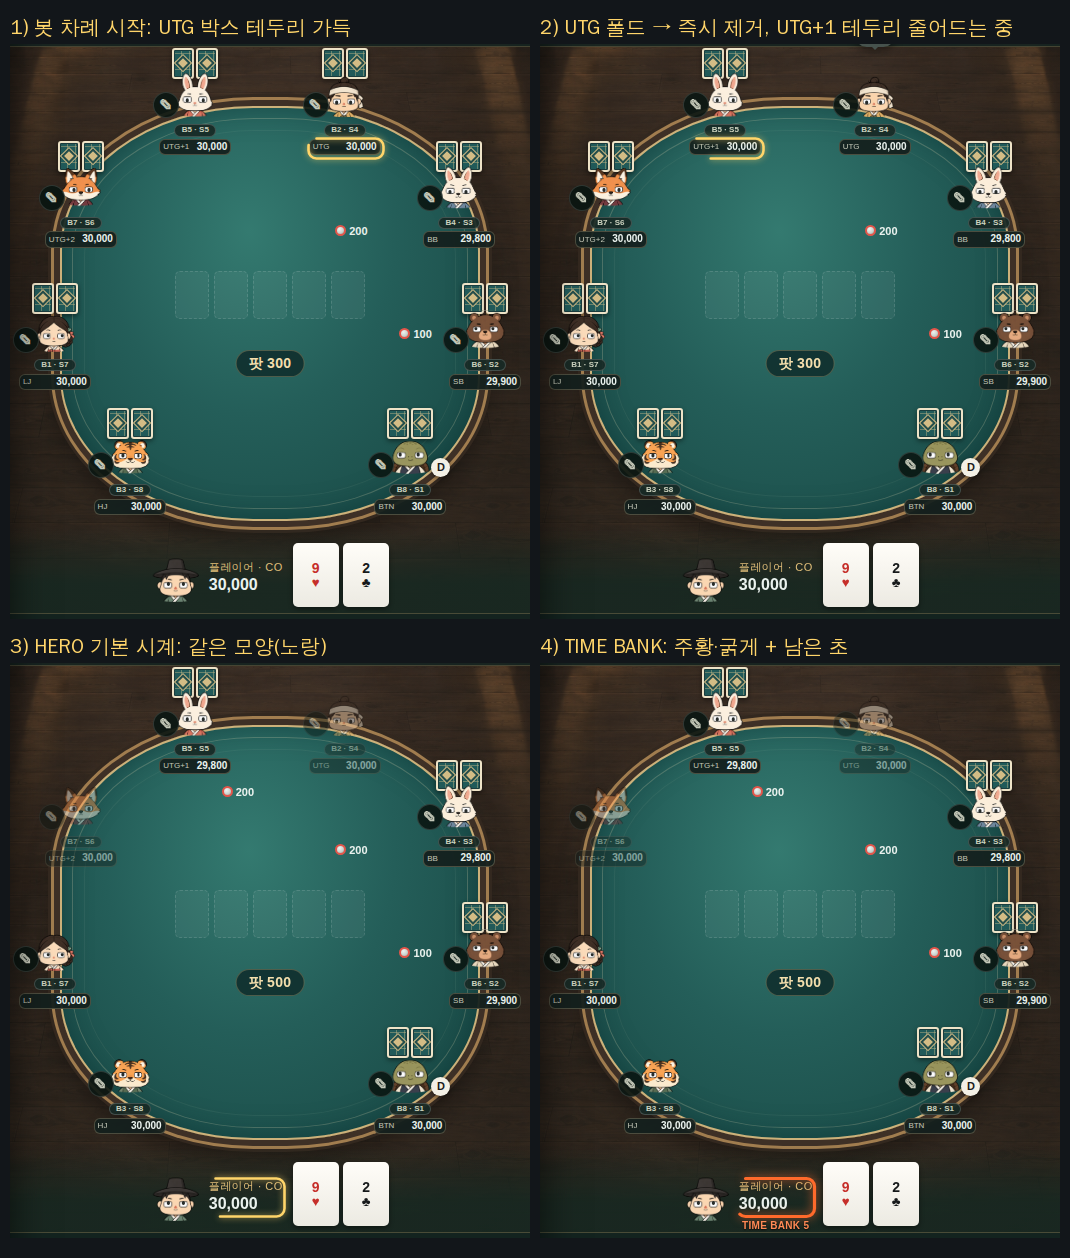
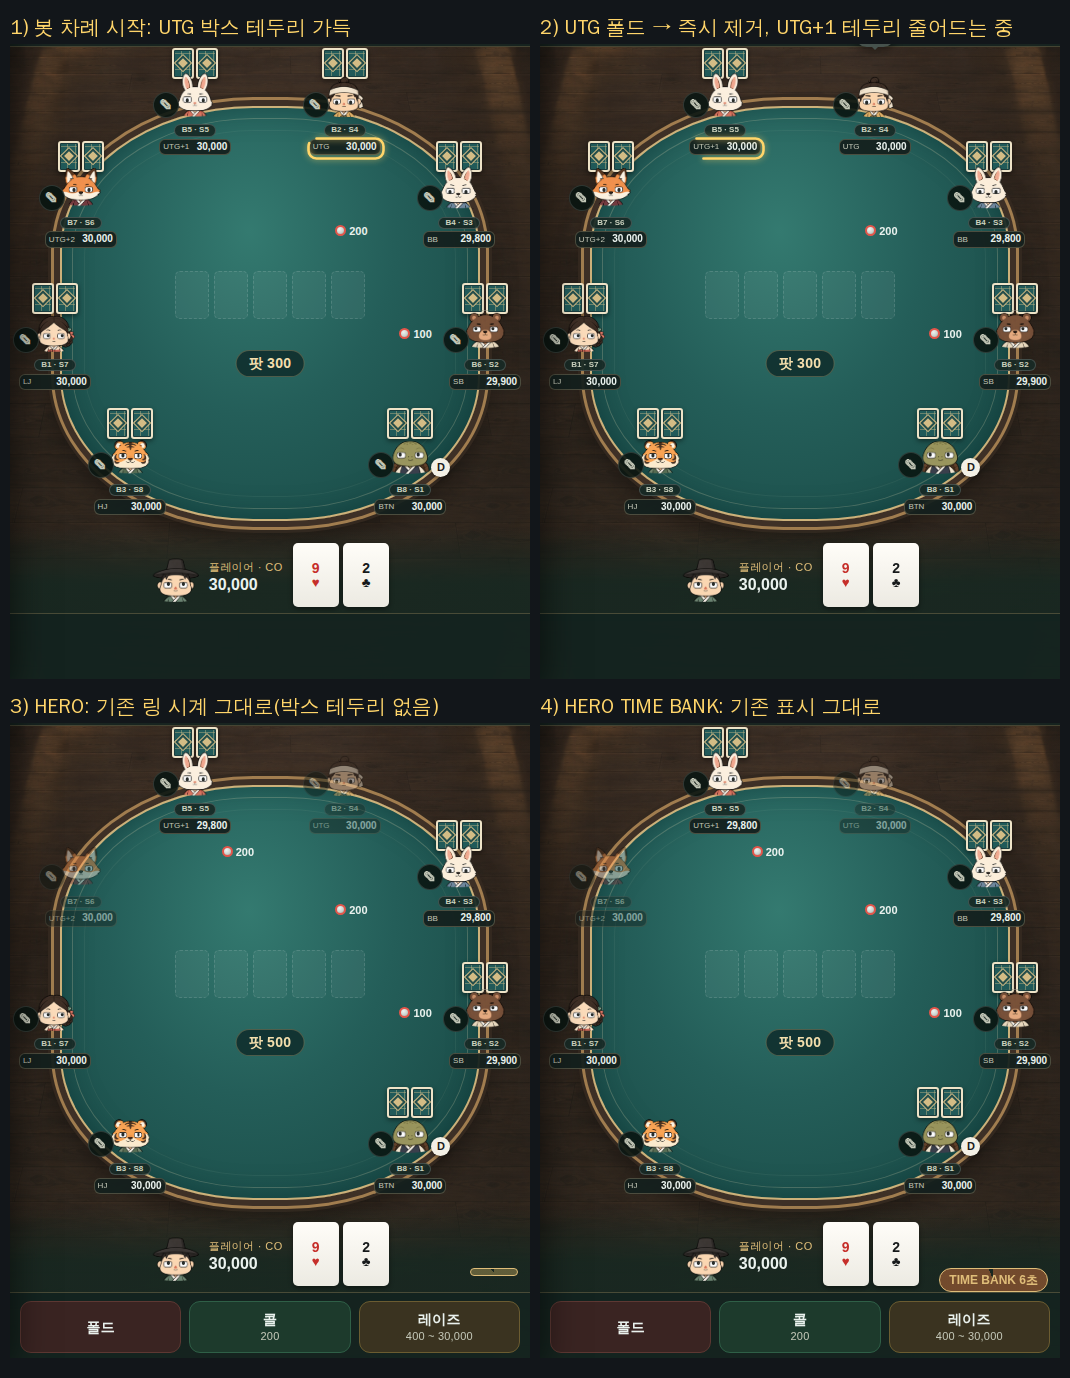
UI: keep HERO on the original turn clock; box-border clock for other seats only
Claude-Session: https://claude.ai/code/session_01XV9GKUYpuxdA2ckcjg1qsv

diff --git a/ui/web/app.js b/ui/web/app.js
@@ -98,8 +98,8 @@ const serverNow = () => Date.now() + (S.clockOffset || 0);
 const SEAT_CLOCKS = {};
 
 /* 박스 테두리 시계(WPL 방식): 포지션·스택 박스 둘레의 선이 남은 액션 시계 비율만큼 줄어든다.
- * 봇·다른 플레이어는 .pod .meta, HERO 는 #heroinfo — 모양은 같고 흐르는 시간만 다르다
- * (봇은 timing model 시간, HERO 는 실제 사람 시간). 차례 시작(clock_started) 전에는 보이지 않는다.
+ * HERO 외 봇·다른 플레이어의 .pod .meta 에만 쓴다(HERO 는 기존 #turnclock 링 그대로).
+ * 차례 시작(clock_started) 전에는 보이지 않는다.
  */
 function boxClockPaint(host, startMs, baseMs, bankMs, now) {
   if (!host) return;
@@ -3220,8 +3220,6 @@ function stopActionClock() {
   S.timeoutSubmitting = false;
   S.actionBaseMs = null;
   S.actionStartMs = null;
-  const hc = document.querySelector('#heroinfo > .actclock');
-  if (hc) hc.remove();
   const el = $('#turnclock');
   if (el) {
     el.hidden = true;
@@ -3236,10 +3234,19 @@ function paintActionClock() {
   const leftMs = Math.max(0, S.actionDeadlineMs - Date.now());
   const sec = Math.max(0, Math.ceil(leftMs / 1000));
   if (S.timingOn && S.actionBaseMs) {
-    // 시간 규칙: 봇과 같은 박스 테두리 시계(HERO 정보 박스). 숫자는 마지막 10초, 기본 시간 뒤 TIME BANK.
+    // 시간 규칙: 링만 줄어들다가 마지막 10초부터 숫자. 기본 시간이 지나면 TIME BANK.
+    const now = Date.now();
+    const inBank = now >= S.actionBaseMs && S.actionDeadlineMs > S.actionBaseMs;
     const start = S.actionStartMs || (S.actionBaseMs - 18000);
-    el.hidden = true;
-    boxClockPaint($('#heroinfo'), start, S.actionBaseMs, S.actionDeadlineMs, Date.now());
+    const frac = inBank
+      ? Math.max(0, (S.actionDeadlineMs - now) / Math.max(1, S.actionDeadlineMs - S.actionBaseMs))
+      : Math.max(0, (S.actionBaseMs - now) / Math.max(1, S.actionBaseMs - start));
+    el.hidden = false;
+    el.classList.add('ring');
+    el.classList.toggle('bank', inBank);
+    el.style.setProperty('--p', (frac * 100).toFixed(1) + '%');
+    el.textContent = sec <= 10 ? (inBank ? 'TIME BANK ' : '') + sec + '초' : (inBank ? 'TIME BANK' : '');
+    el.classList.toggle('urgent', sec <= 5);
   } else {
     el.hidden = false;
     el.textContent = sec + '초';

diff --git a/ui/web/style.css b/ui/web/style.css
@@ -664,9 +664,9 @@ button .sub { display: block; font-size: 11px; font-weight: 500; color: var(--di
 .rankrow .seat { color:var(--dim); font-size:10px; text-align:right; }
 .rankempty { padding:24px 10px; text-align:center; color:var(--dim); }
 
-/* 시간 규칙(T2_TIMING_V1): 박스 테두리 액션 시계(WPL 방식). 봇은 .pod .meta, HERO 는 #heroinfo.
+/* 시간 규칙(T2_TIMING_V1): 박스 테두리 액션 시계(WPL 방식). HERO 외 좌석의 .pod .meta 에만.
  * 선이 남은 시간 비율만큼 줄어들고, TIME BANK 구간은 색이 바뀐다. 숫자는 마지막 10초만. */
-.pod .meta, #heroinfo { position: relative; }
+.pod .meta { position: relative; }
 .actclock { position: absolute; left: -3px; top: -3px; right: -3px; bottom: -3px;
             pointer-events: none; z-index: 2; }
 .actclock .ac-svg { position: absolute; left: 0; top: 0; overflow: visible; }
@@ -678,3 +678,6 @@ button .sub { display: block; font-size: 11px; font-weight: 500; color: var(--di
                    text-shadow: 0 1px 2px rgba(0,0,0,.8); }
 .actclock.bank .acnum, .actclock.urgent .acnum { color: #ff8a55; }
 .actclock.bank .acnum { letter-spacing: .3px; }
+/* HERO 는 기존 링 시계 그대로 */
+#turnclock.ring { background: conic-gradient(rgba(232,196,106,.35) var(--p, 100%), transparent 0); }
+#turnclock.ring.bank { background: conic-gradient(rgba(224,118,60,.45) var(--p, 100%), transparent 0); }

diff --git a/docs/semantic_audit/TIME_SYSTEM_IMPLEMENTATION_DESIGN.md b/docs/semantic_audit/TIME_SYSTEM_IMPLEMENTATION_DESIGN.md
@@ -321,5 +321,5 @@ K 평균 0.63(중앙 0.65, 90% 0.81). 시간당 핸드(가상 테이블) 지금 
 - **박스 테두리 시계(WPL 방식)**: HERO 외 모든 좌석은 자기 차례 시작 순간부터 `.pod .meta`(포지션·스택) 박스 테두리가
   실제 액션 시계 남은 비율만큼 줄어든다(봇은 서버 예정표의 모델 시간, 가짜 1.5초 없음). 행동하면 즉시 제거되고 다음
   좌석 시계가 시작된다. TIME BANK 구간은 주황·굵은 선 + `TIME BANK n`, 숫자는 마지막 10초에만.
-  HERO(`#heroinfo`)도 같은 모양, HERO 는 실제 시간. 그림 `docs/beta/timing_box_clock.png`.
+  **HERO 는 적용하지 않는다**(사용자 정정): 기존 `#turnclock` 링 그대로. 그림 `docs/beta/timing_box_clock.png`.
 - **남은 공백**: timing ON 상태의 예약 대회 흐름 전용 검증기 없음(제안 항목).
